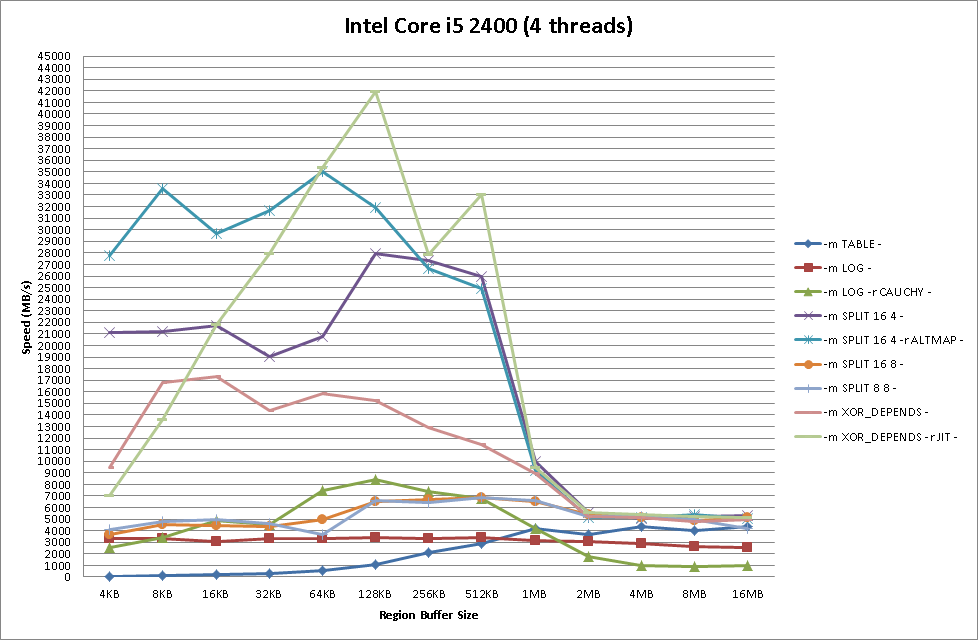
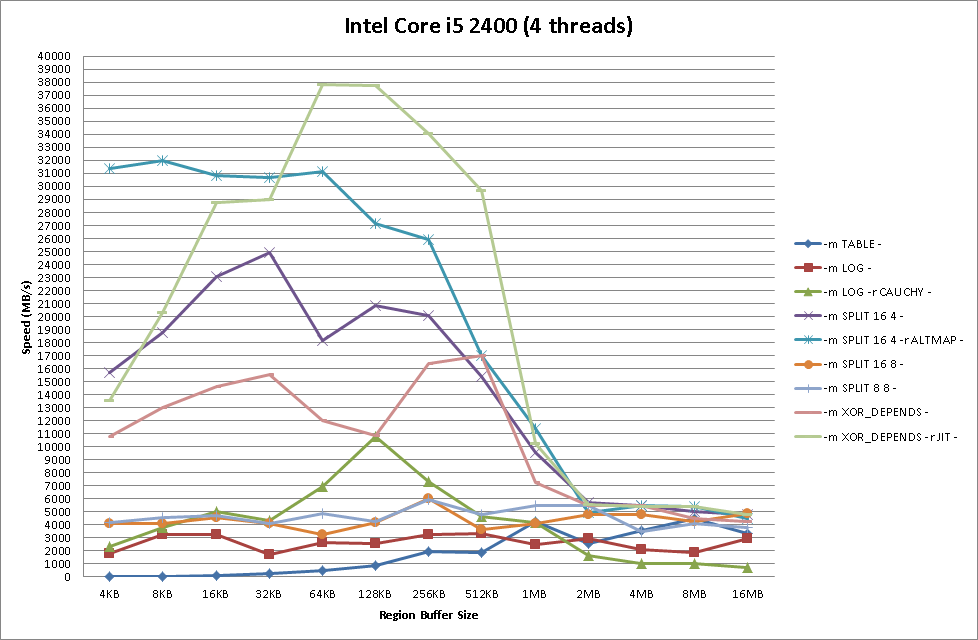
Update XOR_DEPENDS benchmarks

Changed region(s): [[0.0307, 0.0938, 0.7975, 0.9062]]

diff --git a/xor_depends/info.md b/xor_depends/info.md
@@ -434,6 +434,20 @@ Notes:
 -   XOR\_DEPENDS (JIT) does not perform as well on 32 bit builds as it does
     here, due to fewer XMM registers being available for caching
 
+-   some processor specific optimisations are used in XOR\_DEPENDS JIT code.
+    These optimisations predominantly affect smaller region sizes:
+
+    -   on Intel Core 2 (as well as first gen Atom), 128-bit unaligned stores
+        are done via 64-bit instructions as they are faster than a MOVDQU
+        instruction
+
+    -   on Intel Nehalem and newer (Core iX processors), JIT’d code is written
+        to a temporary location then copied across to the destination. This
+        reduces “machine clear” events due to SMC triggers and improves
+        performance significantly
+
+-   AVX is used if supported by the CPU (GF-Complete does this by default)
+
 -   a few optimisations have been applied to the SPLIT\_TABLE(16,4)
     implementation:
 
@@ -467,15 +481,15 @@ instruction, hence XOR\_DEPENDS usually comes out on top  
 Intel Silvermont
 ----------------
 
--   CPU: Intel Atom C2750 @2.4GHz
+-   CPU: Intel Atom C2350 @2.0GHz
 
-    -   24KB L1 cache, 4MB shared L2 cache, SSE2 and SSSE3 supported
+    -   24KB L1 cache, 1MB shared L2 cache, SSE2 and SSSE3 supported
 
--   RAM: 8GB DDR3 1600MHz dual channel
+-   RAM: 4GB DDR3 1600MHz
 
 -   Compiler: GCC 4.9.2
 
-![](<AtomC2750.png>)
+![](<AtomC2350.png>)
 
 **Comment**: It seems like SPLIT\_TABLE(16,4) is *really* slow on the Atom, only
 slightly faster than SPLIT\_TABLE(16,8), probably due to the `pshufb`
@@ -513,7 +527,7 @@ Intel Sandy Bridge
 
 -   RAM: 4GB DDR3 1333MHz dual channel
 
--   Compiler: GCC 4.8.2
+-   Compiler: GCC 5.2.1
 
 ![](<CoreI2400.png>)
 
@@ -530,8 +544,6 @@ A small, rough alteration to the *gf\_time* tool to run tests in 4 threads.
 Region data is no longer randomised to try to keep cores maximally loaded with
 calculations we wish to benchmark.
 
-![](<AtomC2750mt.png>)
-
 ![](<Phenom9950mt.png>)
 
 ![](<CoreI2400mt.png>)
@@ -540,6 +552,10 @@ calculations we wish to benchmark.
 
 Patch
 =====
+
+**This patch is now out of date as I can’t be bothered maintaining it; the
+latest implementation can be found in ParPar. If anyone is interested in such a
+patch, raise a Github issue.**
 
 A rather hacky patch for GF-Complete, which should apply cleanly to the v2 tag,
 can be [found here](<gfc.patch>).
